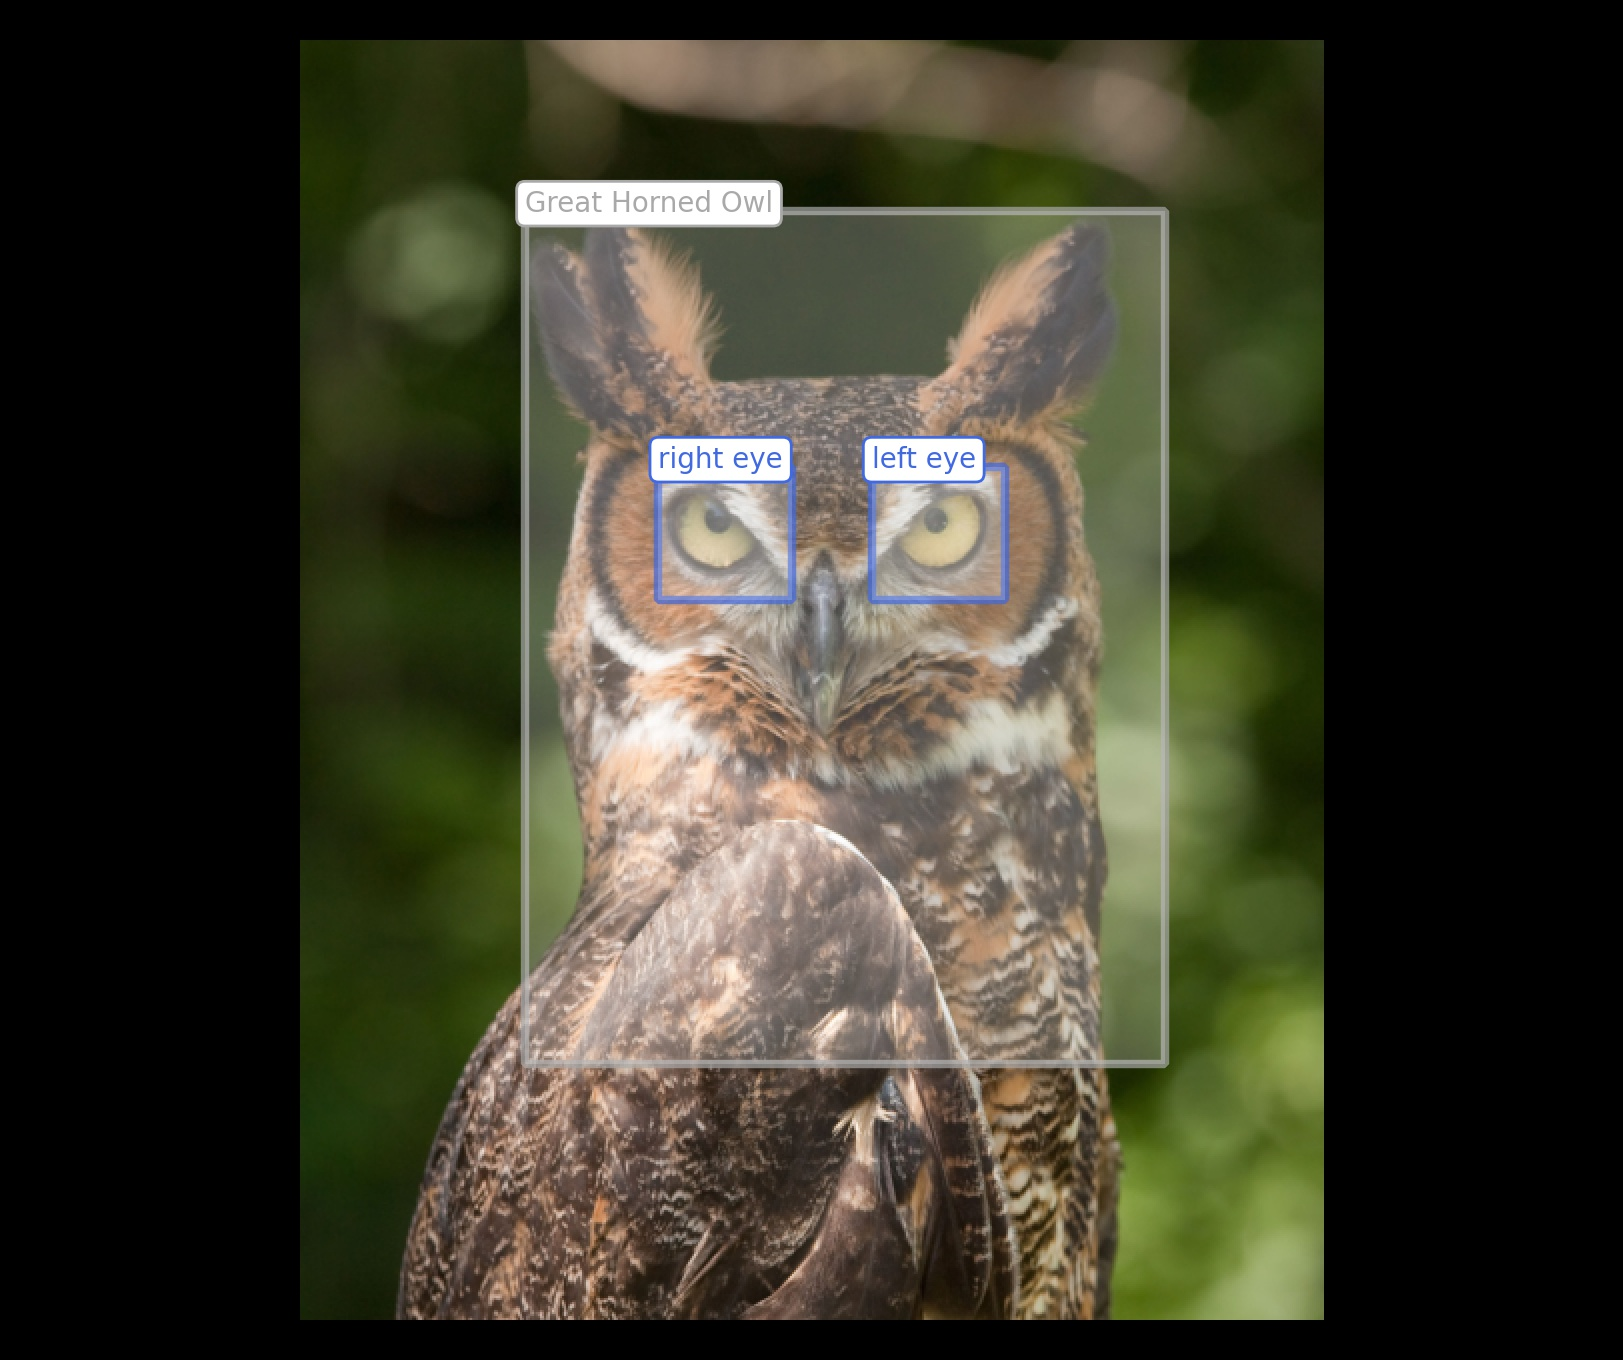
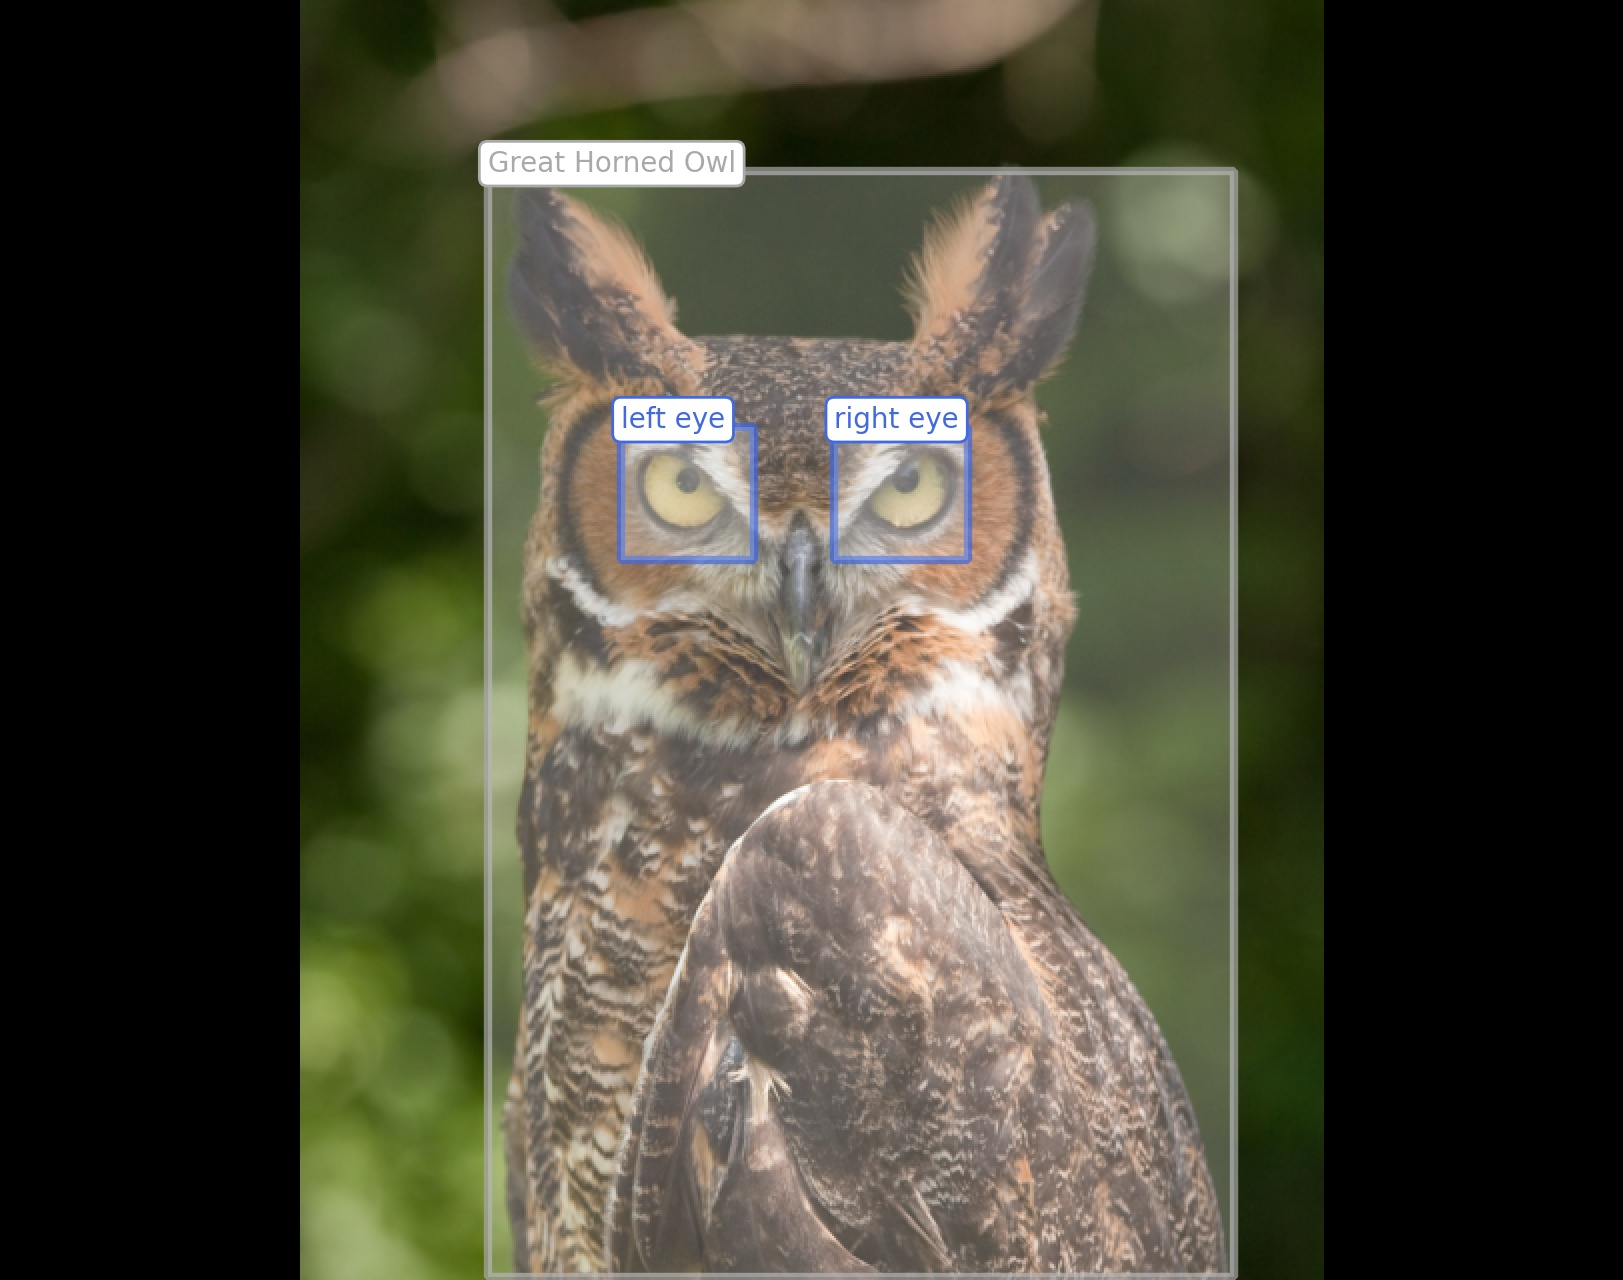
updated owl() demo annotation

diff --git a/vipy/image.py b/vipy/image.py
@@ -1996,7 +1996,7 @@ def owl():
     """Return an owl image for testing"""
     return Scene(url='https://upload.wikimedia.org/wikipedia/commons/thumb/2/23/Bubo_virginianus_06.jpg/1920px-Bubo_virginianus_06.jpg',
                  category='Nature',
-                 objects=[vipy.object.Detection('Great Horned Owl', xmin=300, ymin=320, width=1200, height=1600),
+                 objects=[vipy.object.Detection('Great Horned Owl', xmin=350, ymin=320, width=1400, height=2100),
                           vipy.object.Detection('left eye', xmin=600, ymin=800, width=250, height=250), 
                           vipy.object.Detection('right eye', xmin=1000, ymin=800, width=250, height=250)])
 

diff --git a/README.md b/README.md
@@ -49,7 +49,7 @@ Quickstart
 -------------------
 ```python
 import vipy
-vipy.image.owl().mindim(512).fliplr().zeropad(padwidth=150).show()
+vipy.image.owl().mindim(512).zeropad(padwidth=150, padheight=0).show()
 ```
 <img src="./docs/vipy_image_owl.jpg" width="700">
 
